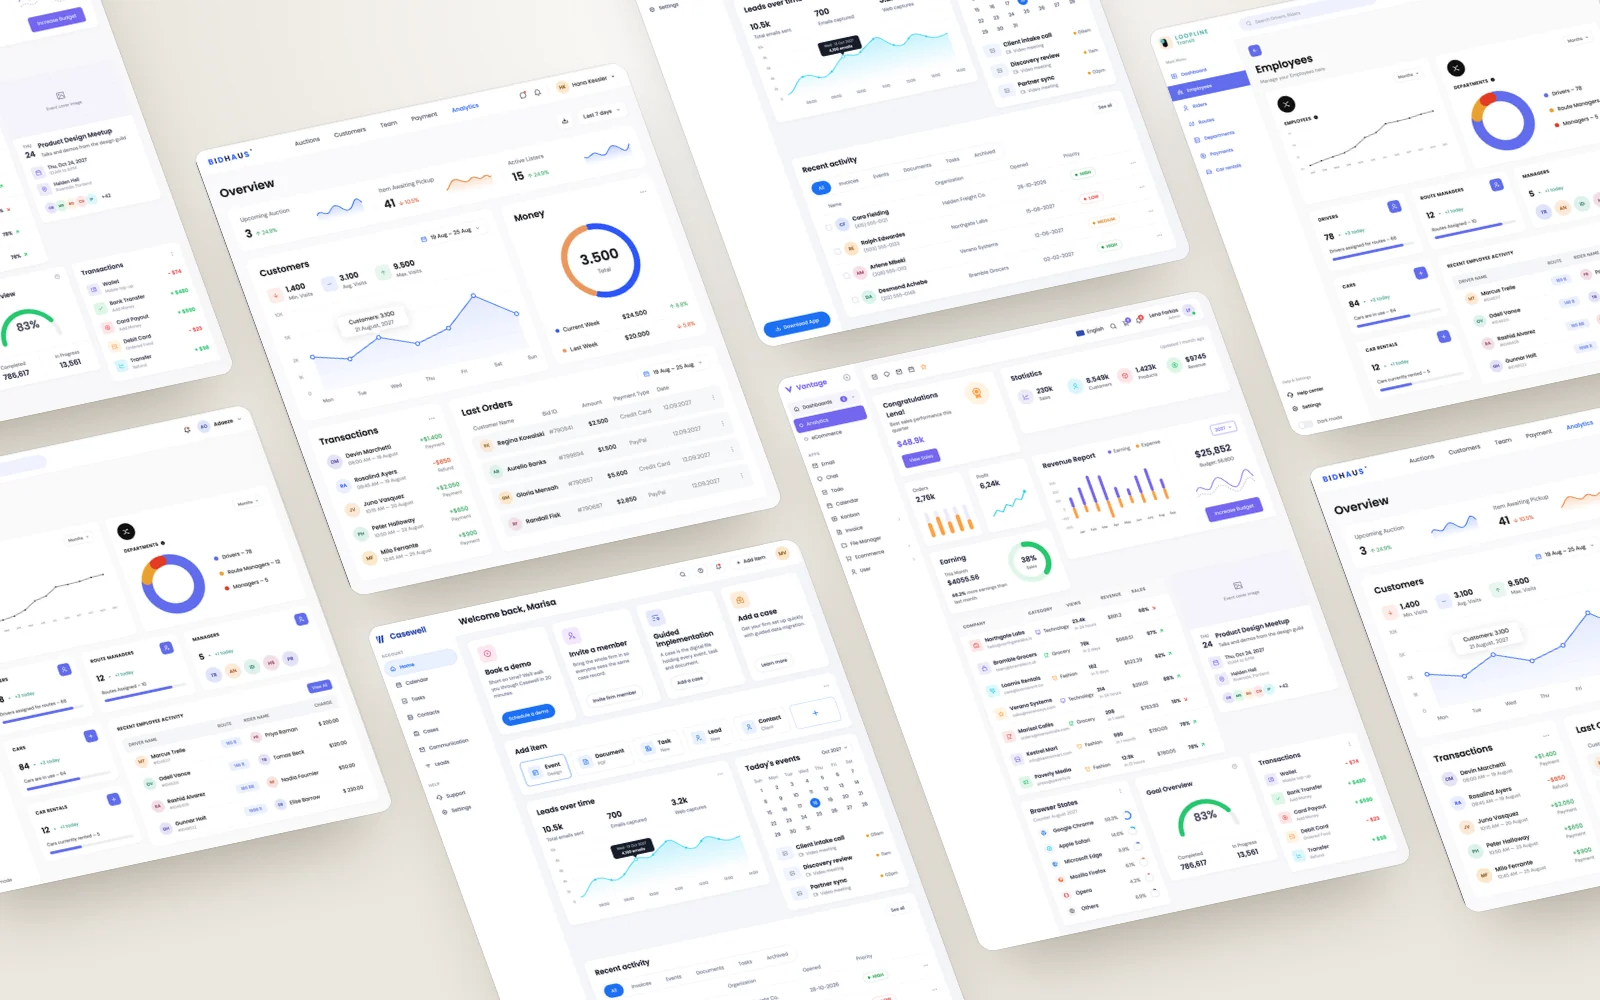
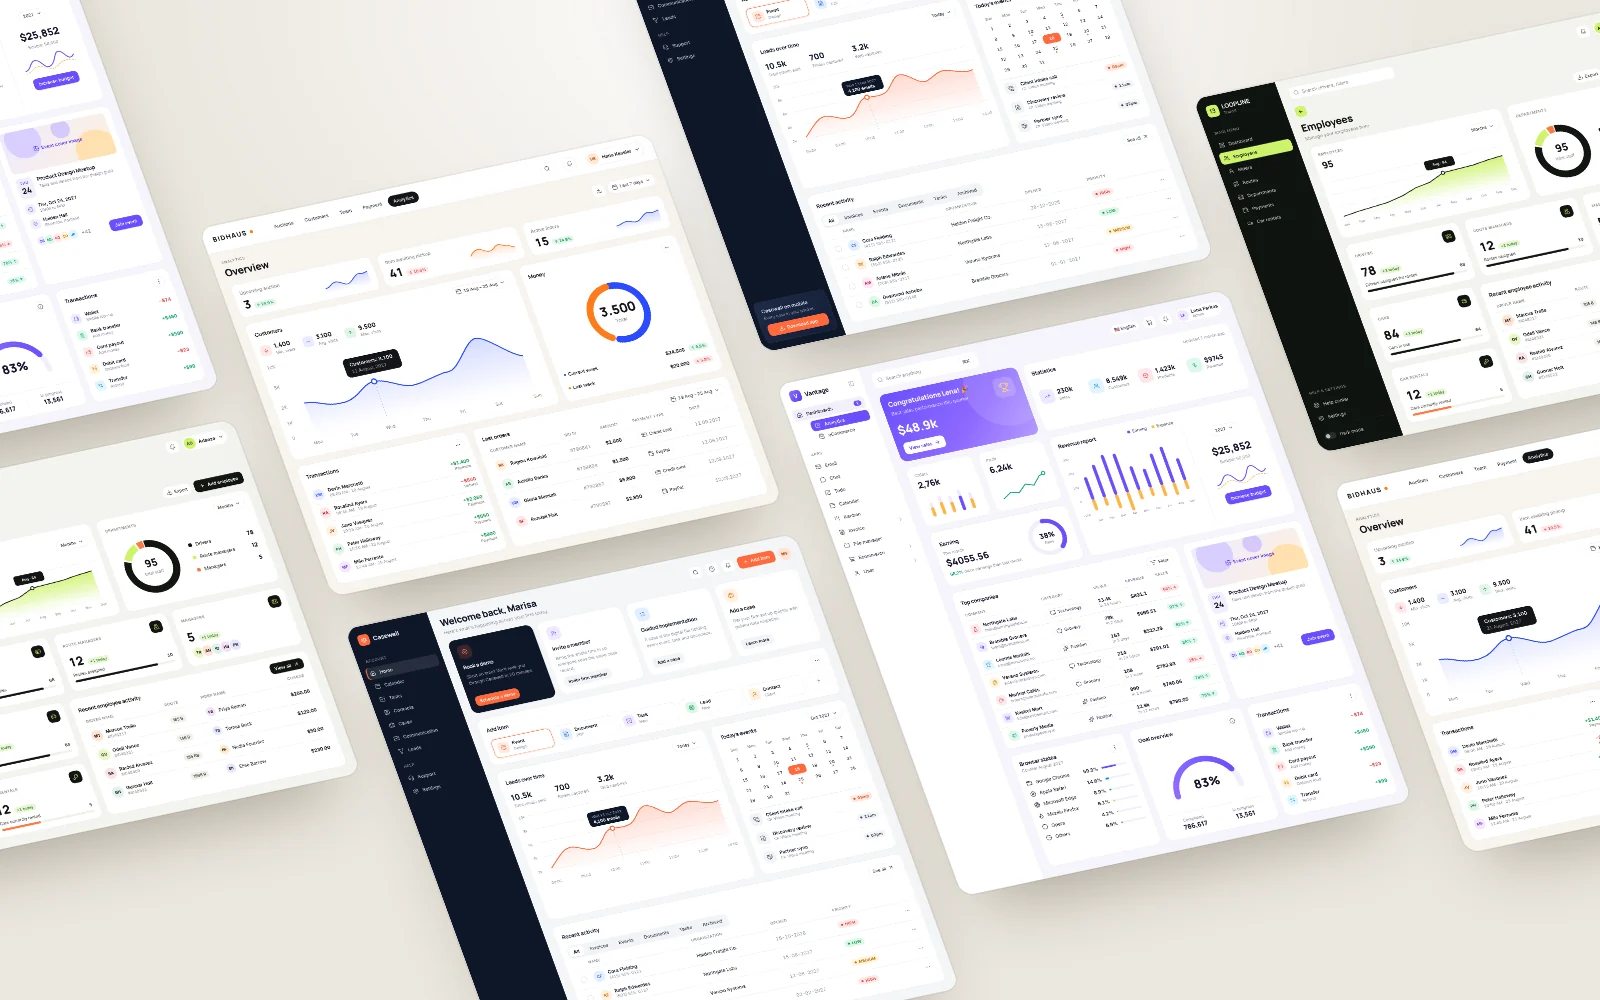
Dashboards: restyled Loopline, Bidhaus, Vantage, Casewell (same layout & content), hi-res webp; new collection cover
Claude-Session: https://claude.ai/code/session_01A8sYXQ7Q1R26CL4v2fF2WT

diff --git a/assets/site.js b/assets/site.js
@@ -48,19 +48,19 @@ const CASES = {
 const CASE_ORDER = ['skribe', 'vendidit', 'sendwin'];
 
 const DASHES = [
-  { name: 'Loopline Transit', cat: 'Fleet &amp; workforce operations admin', img: 'assets/dash/loopline.png',
+  { name: 'Loopline Transit', cat: 'Fleet &amp; workforce operations admin', img: 'assets/dash/loopline.webp',
     context: 'Internal admin for a regional shuttle and ride operator managing drivers, route managers, riders and a rental fleet.',
     problem: "Dispatch and people data lived in separate tools, so simple questions took too long: who's unassigned, which cars are idle, what a rider was charged.",
     solution: 'Headcount, fleet utilisation and recent trip activity in one view. Every metric is paired with its context, like assigned vs. total, so managers read capacity, not just counts.' },
-  { name: 'Bidhaus', cat: 'Marketplace &amp; auction analytics console', img: 'assets/dash/bidhaus.png',
+  { name: 'Bidhaus', cat: 'Marketplace &amp; auction analytics console', img: 'assets/dash/bidhaus.webp',
     context: 'Operations overview for an online auction and warehouse-lot marketplace, used by sales, pickup and payout teams.',
     problem: 'Auctions, buyer traffic and money were tracked in three different reports, which made it hard to tell a demand problem from a fulfilment problem.',
     solution: 'Pipeline, customer volume and cash movement side by side, with the pickup backlog surfaced as its own metric. One date range drives every panel, so week-over-week reads directly.' },
-  { name: 'Vantage', cat: 'Multi-product SaaS admin', img: 'assets/dash/vantage.png',
+  { name: 'Vantage', cat: 'Multi-product SaaS admin', img: 'assets/dash/vantage.webp',
     context: 'Default admin home for a SaaS platform where different teams care about different numbers.',
     problem: 'One generic dashboard ends up serving no role well.',
     solution: 'Organised in tiers: headline performance, then revenue against budget, then account-level detail. A repeatable card pattern (icon, value, label) keeps a dense screen scannable and lets modules be reordered without breaking.' },
-  { name: 'Casewell', cat: 'Legal practice &amp; case management dashboard', img: 'assets/dash/casewell.png',
+  { name: 'Casewell', cat: 'Legal practice &amp; case management dashboard', img: 'assets/dash/casewell.webp',
     context: 'Home screen for a case management tool used by small litigation firms to handle matters, contacts, documents and intake leads.',
     problem: "New firms stalled during setup, and users weren't sure where to add documents, tasks or contacts.",
     solution: "Onboarding becomes an explicit path on the home screen, record creation a row of typed shortcuts, and the day's schedule and lead pipeline stay in view. Three bands separate setup, creating and the day's work." }

diff --git a/index.html b/index.html
@@ -17,7 +17,7 @@
 <link rel="preconnect" href="https://fonts.googleapis.com">
 <link rel="preconnect" href="https://fonts.gstatic.com" crossorigin>
 <link href="https://fonts.googleapis.com/css2?family=Bricolage+Grotesque:opsz,wdth,wght@12..96,75..100,200..800&family=Fraunces:ital,opsz,wght@1,9..144,300..500&family=IBM+Plex+Mono:wght@400;500&display=swap" rel="stylesheet">
-<link rel="stylesheet" href="assets/site.css?v=1793734619">
+<link rel="stylesheet" href="assets/site.css?v=1793735003">
 <script>document.documentElement.classList.add('js');try{if(sessionStorage.getItem('md-seen'))document.documentElement.classList.add('no-loader')}catch(e){}</script>
 <script type="application/ld+json">{"@context":"https://schema.org","@type":"Person","name":"Mahir Abrar Akash","jobTitle":"Senior Product Designer","url":"https://www.mahir.design/","address":{"@type":"PostalAddress","addressCountry":"BD"},"sameAs":["https://www.linkedin.com/in/mahirakash","https://dribbble.com/mahirakash","https://www.behance.net/mahirakash"]}</script>
 </head>
@@ -300,6 +300,6 @@
 <script src="https://cdnjs.cloudflare.com/ajax/libs/gsap/3.12.5/gsap.min.js"></script>
 <script src="https://cdnjs.cloudflare.com/ajax/libs/gsap/3.12.5/ScrollTrigger.min.js"></script>
 <script src="https://unpkg.com/lenis@1.1.13/dist/lenis.min.js"></script>
-<script src="assets/site.js?v=1793734619"></script>
+<script src="assets/site.js?v=1793735003"></script>
 </body>
 </html>
